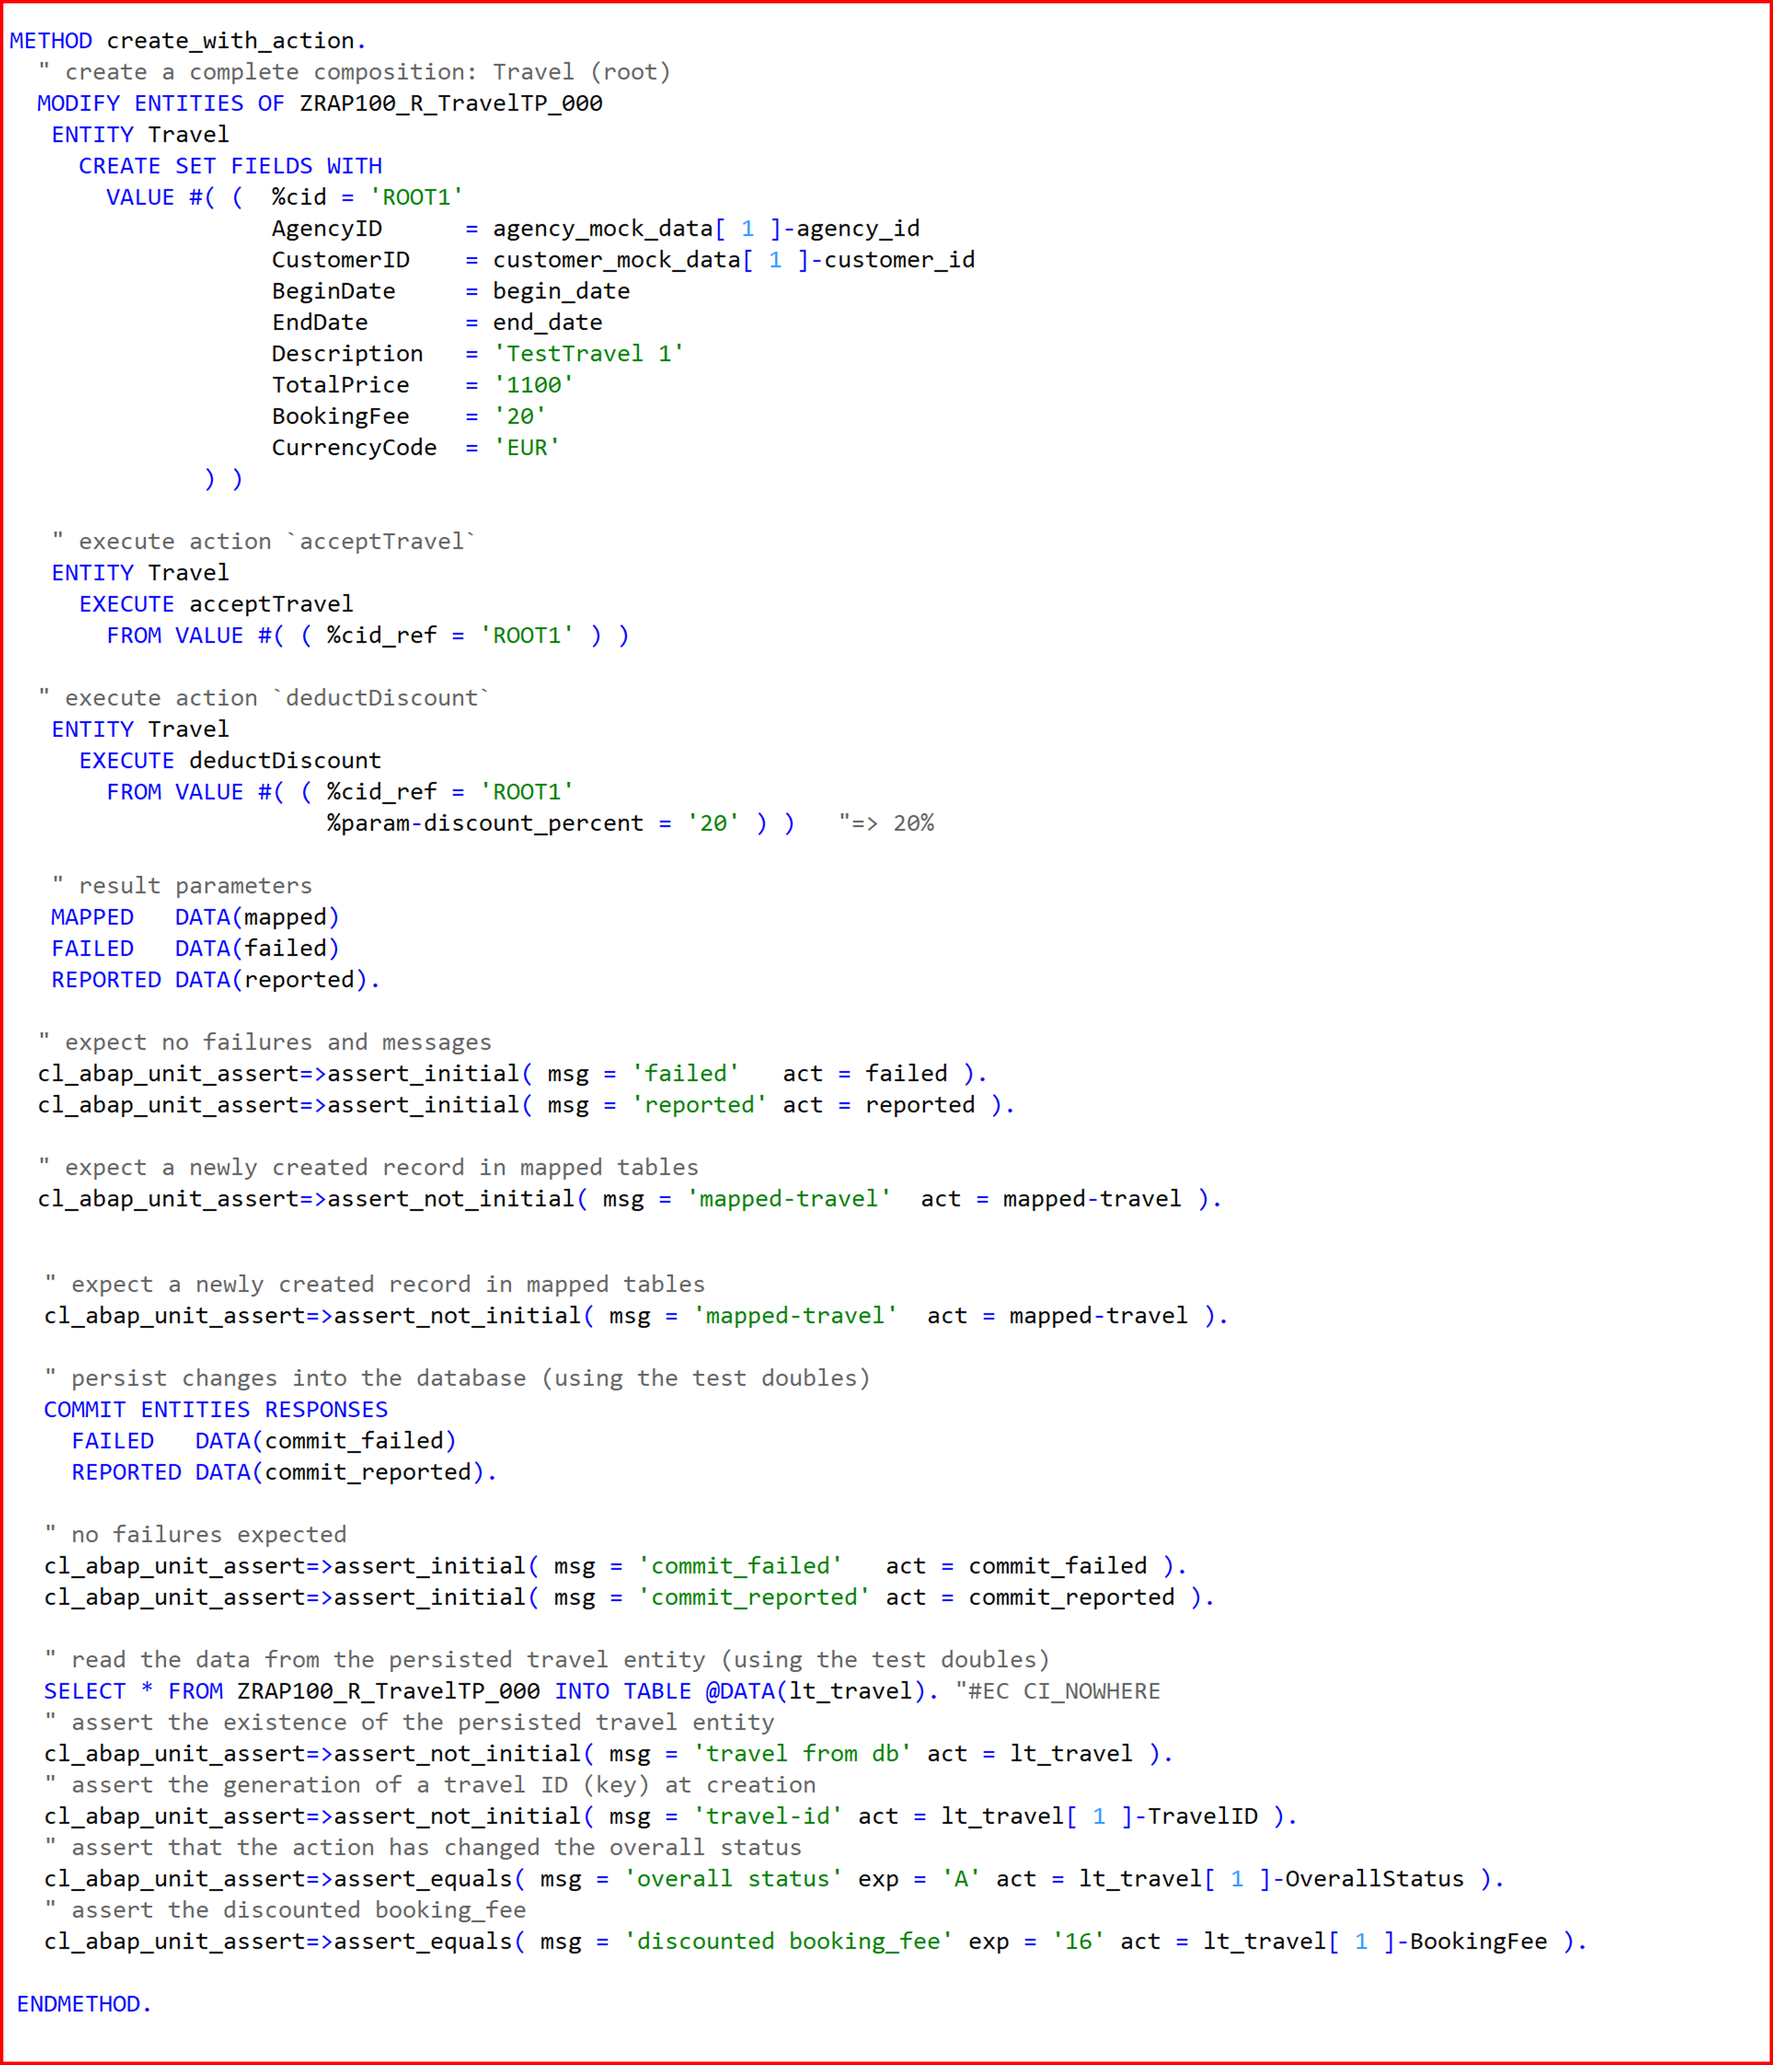
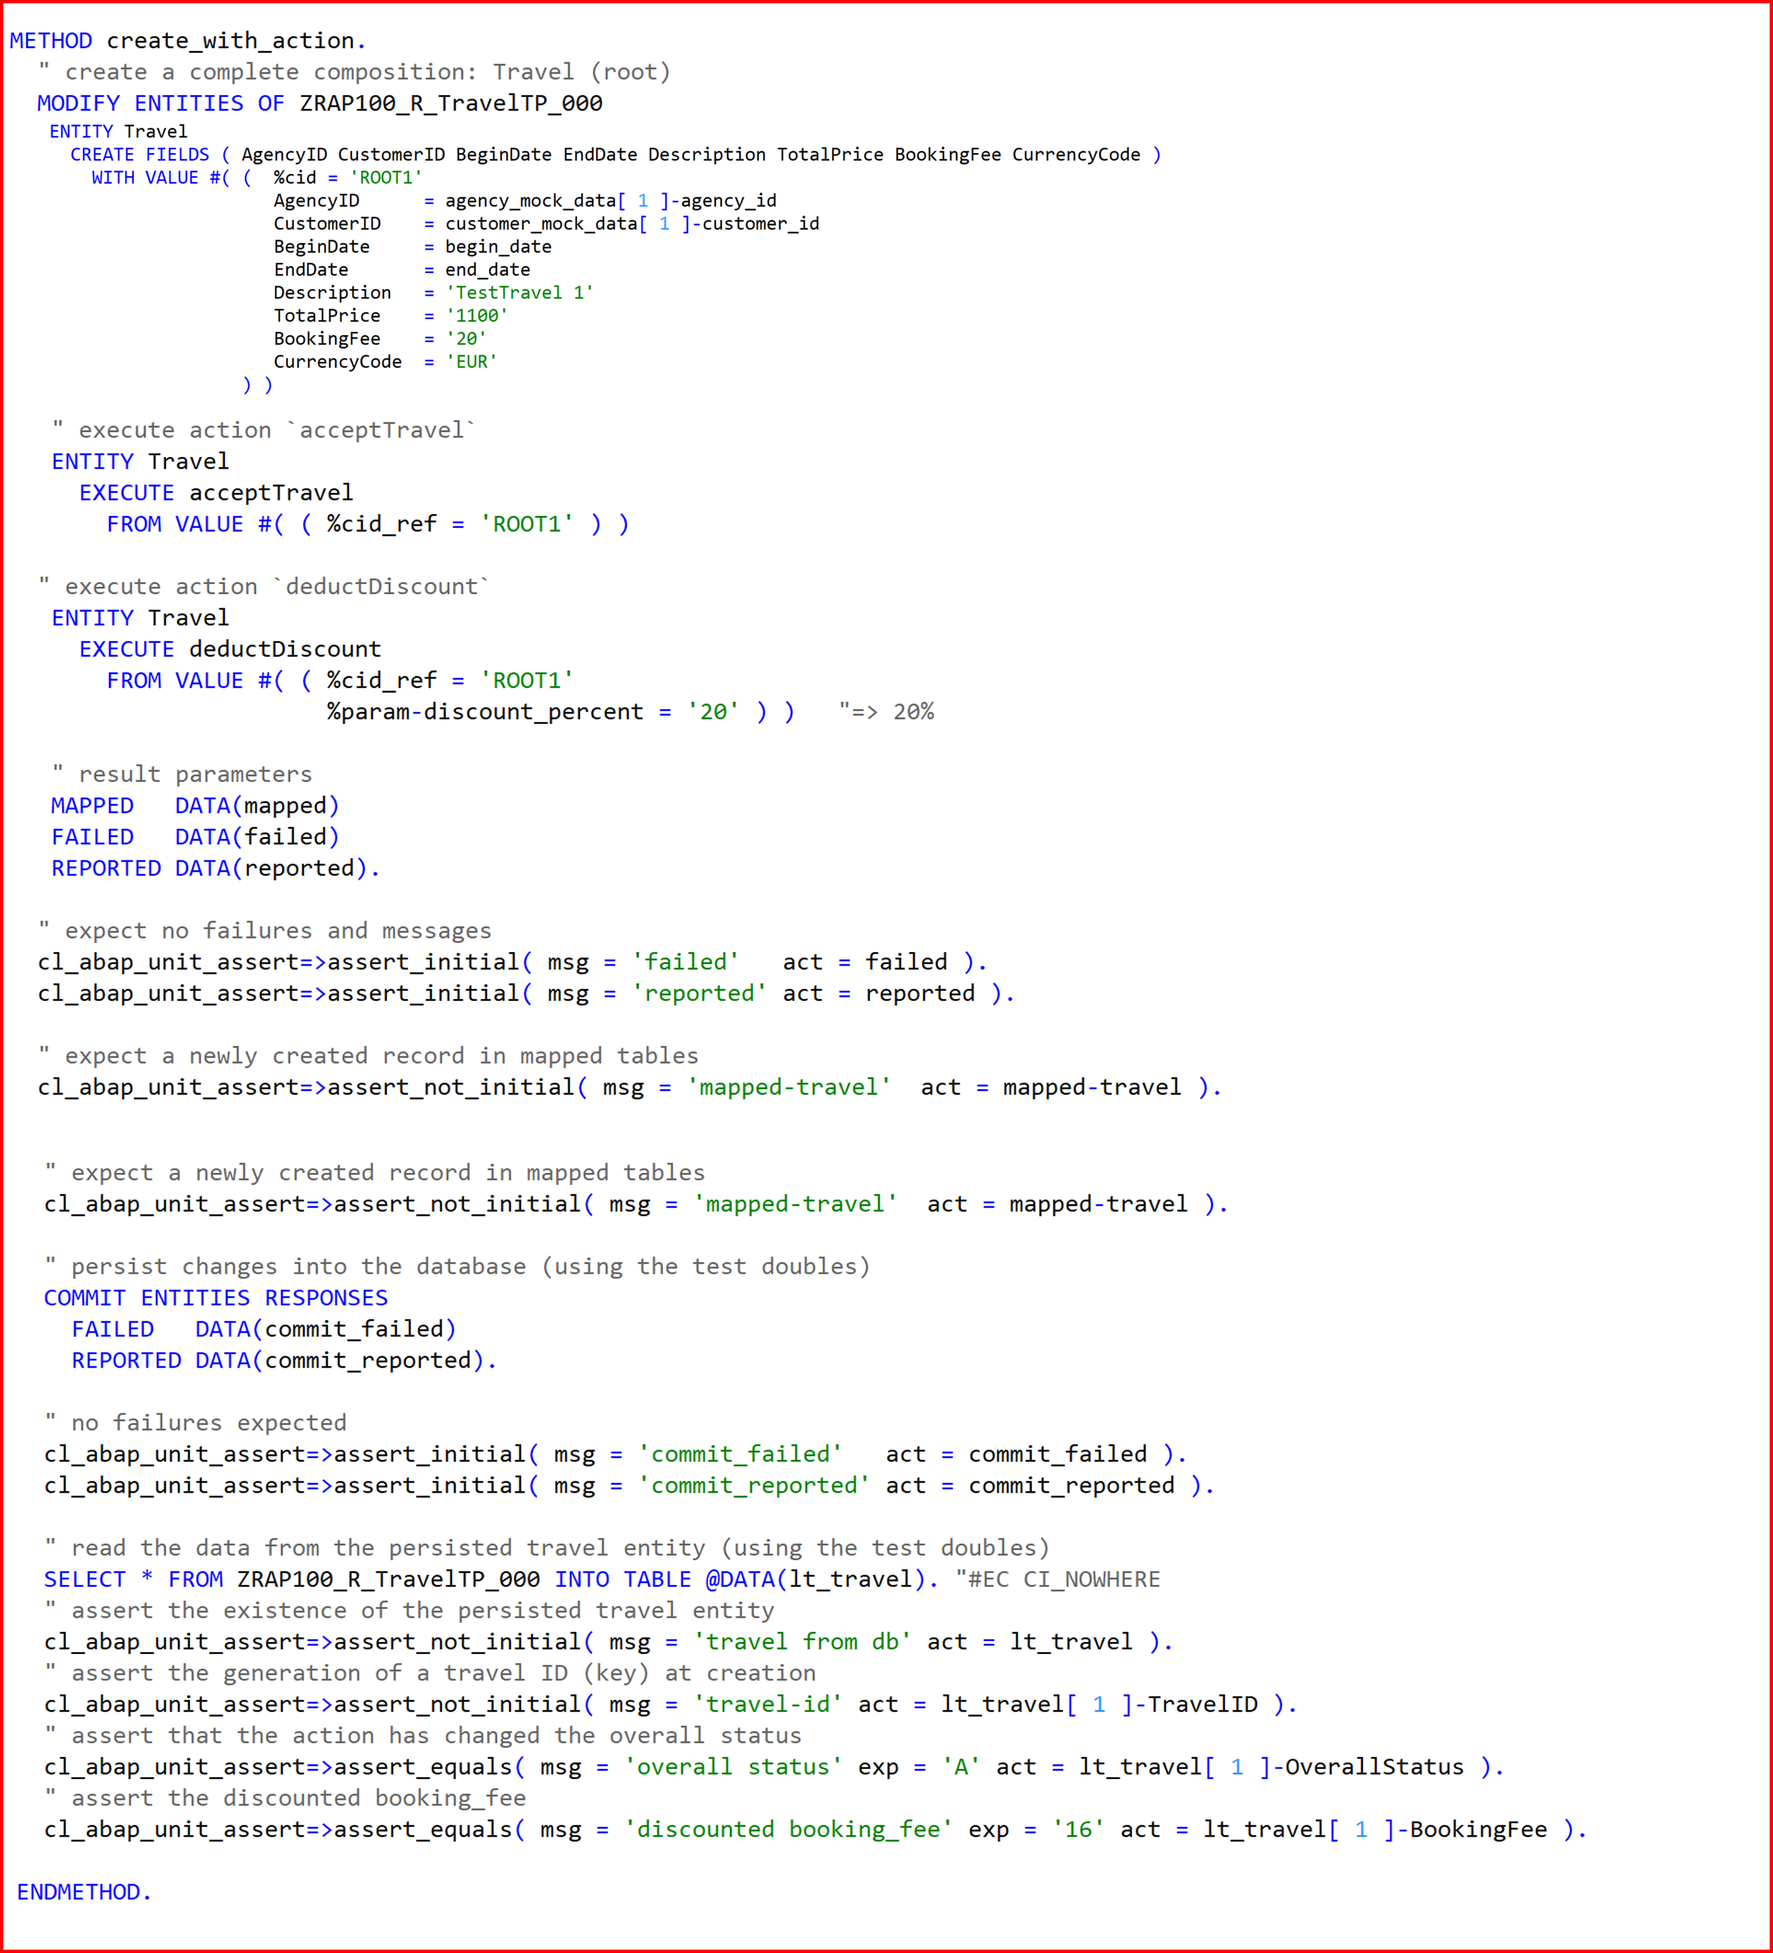
Add files via upload

diff --git a/rap1xx/rap100/exercices/ex8/readme.md b/rap1xx/rap100/exercices/ex8/readme.md
@@ -1,6 +1,6 @@
 [Home - RAP100](../../#exercises)
 
-# \[optional\] Exercises 8: ABAP Unit Testing with the Entity Manipulation Language (EML)
+# \[optional\] Exercises 8: Write an ABAP Unit Test for the RAP BO 
 
 ## Introduction 
 In the previous exercise, you've implemented the dynamic instance feature control for some of the standard and non-standard operations of the _Travel_ entity. (see [Exercise 7](../ex7/readme.md)).
@@ -9,7 +9,7 @@ In the present exercise, you will write scenario tests for your business object 
 
 - [8.1 - Create the ABAP Unit Test Class](#exercise-81-create-the-abap-unit-test-class)
 - [8.2 - Enhance the Test Class Definition](#exercise-82-enhance-the-test-class-definition)
-- [8.3 - Implement the Standard Special Test Class Methods](#exercise-83-implement-the-standard-special-test-class-methods)
+- [8.3 - Implement the Special Methods](#exercise-83-implement-the-special-methods)
 - [8.4 - Implement the Test Method `create_with_action`](#exercise-84-implement-the-test-method-create_with_action)
 - [8.5 - Run Your ABAP Unit Test](#exercise-85-run-your-abap-unit-test)
 - [Summary](#summary)
@@ -145,7 +145,7 @@ ABAP Unit test methods: **`<test method>()`** represents each unit test method f
      
  </details>
 
-## Exercise 8.3: Implement the Standard Special Test Class Methods
+## Exercise 8.3: Implement the Special Methods
 [^Top of page](#)
 
 > Implement the special static methods **`class_setup`** and **`class_teardown`**,  and the special instance method **`setup`** required by the ABAP unit framework.
@@ -268,17 +268,17 @@ ABAP Unit test methods: **`<test method>()`** represents each unit test method f
         " create a complete composition: Travel (root) 
         MODIFY ENTITIES OF ZRAP100_R_TravelTP_###
          ENTITY Travel
-           CREATE SET FIELDS WITH
-             VALUE #( (  %cid = 'ROOT1'
-                         AgencyID      = agency_mock_data[ 1 ]-agency_id
-                         CustomerID    = customer_mock_data[ 1 ]-customer_id
-                         BeginDate     = begin_date
-                         EndDate       = end_date
-                         Description   = 'TestTravel 1'
-                         TotalPrice    = '1100'
-                         BookingFee    = '20'
-                         CurrencyCode  = 'EUR'
-                    ) )
+         CREATE FIELDS ( AgencyID CustomerID BeginDate EndDate Description TotalPrice BookingFee CurrencyCode )
+           WITH VALUE #( (  %cid = 'ROOT1'
+                            AgencyID      = agency_mock_data[ 1 ]-agency_id
+                            CustomerID    = customer_mock_data[ 1 ]-customer_id
+                            BeginDate     = begin_date
+                            EndDate       = end_date
+                            Description   = 'TestTravel 1'
+                            TotalPrice    = '1100'
+                            BookingFee    = '20'
+                            CurrencyCode  = 'EUR'
+                         ) )
 
          " execute action `acceptTravel`
          ENTITY Travel
@@ -390,17 +390,13 @@ You are through with writing your BO test. Go ahead and execute it.
 ## Summary 
 [^Top of page](#)
 
-You've... 
+In this exercise you have... 
 - written an ABAP unit test for your _Travel_ BO entity with EML 
 - run the implemented ABAP Unit test.
 
 > **Further reading**: You can learn more on writing ABAP Unit tests for apps built with RAP here: [RAP400](../../../../rap4xx/rap400)
 
-Congratulations, you are done with this hands-on!
-
-In this hands-on session, you have learned how to build a simple Fiori elements app with _managed_ implementation type of the ABAP RESTful Application Programming Model (RAP) and how to write a BO test with ABAP Unit and the Entity Manipulation Language!
-
-Thank you for attending this workshop!
+You can continue with the next exercise – **\[Explore\] [Exercises 9: External API-based Access to the RAP BO with EML ](../ex9/readme.md)**
 
 ---
 
